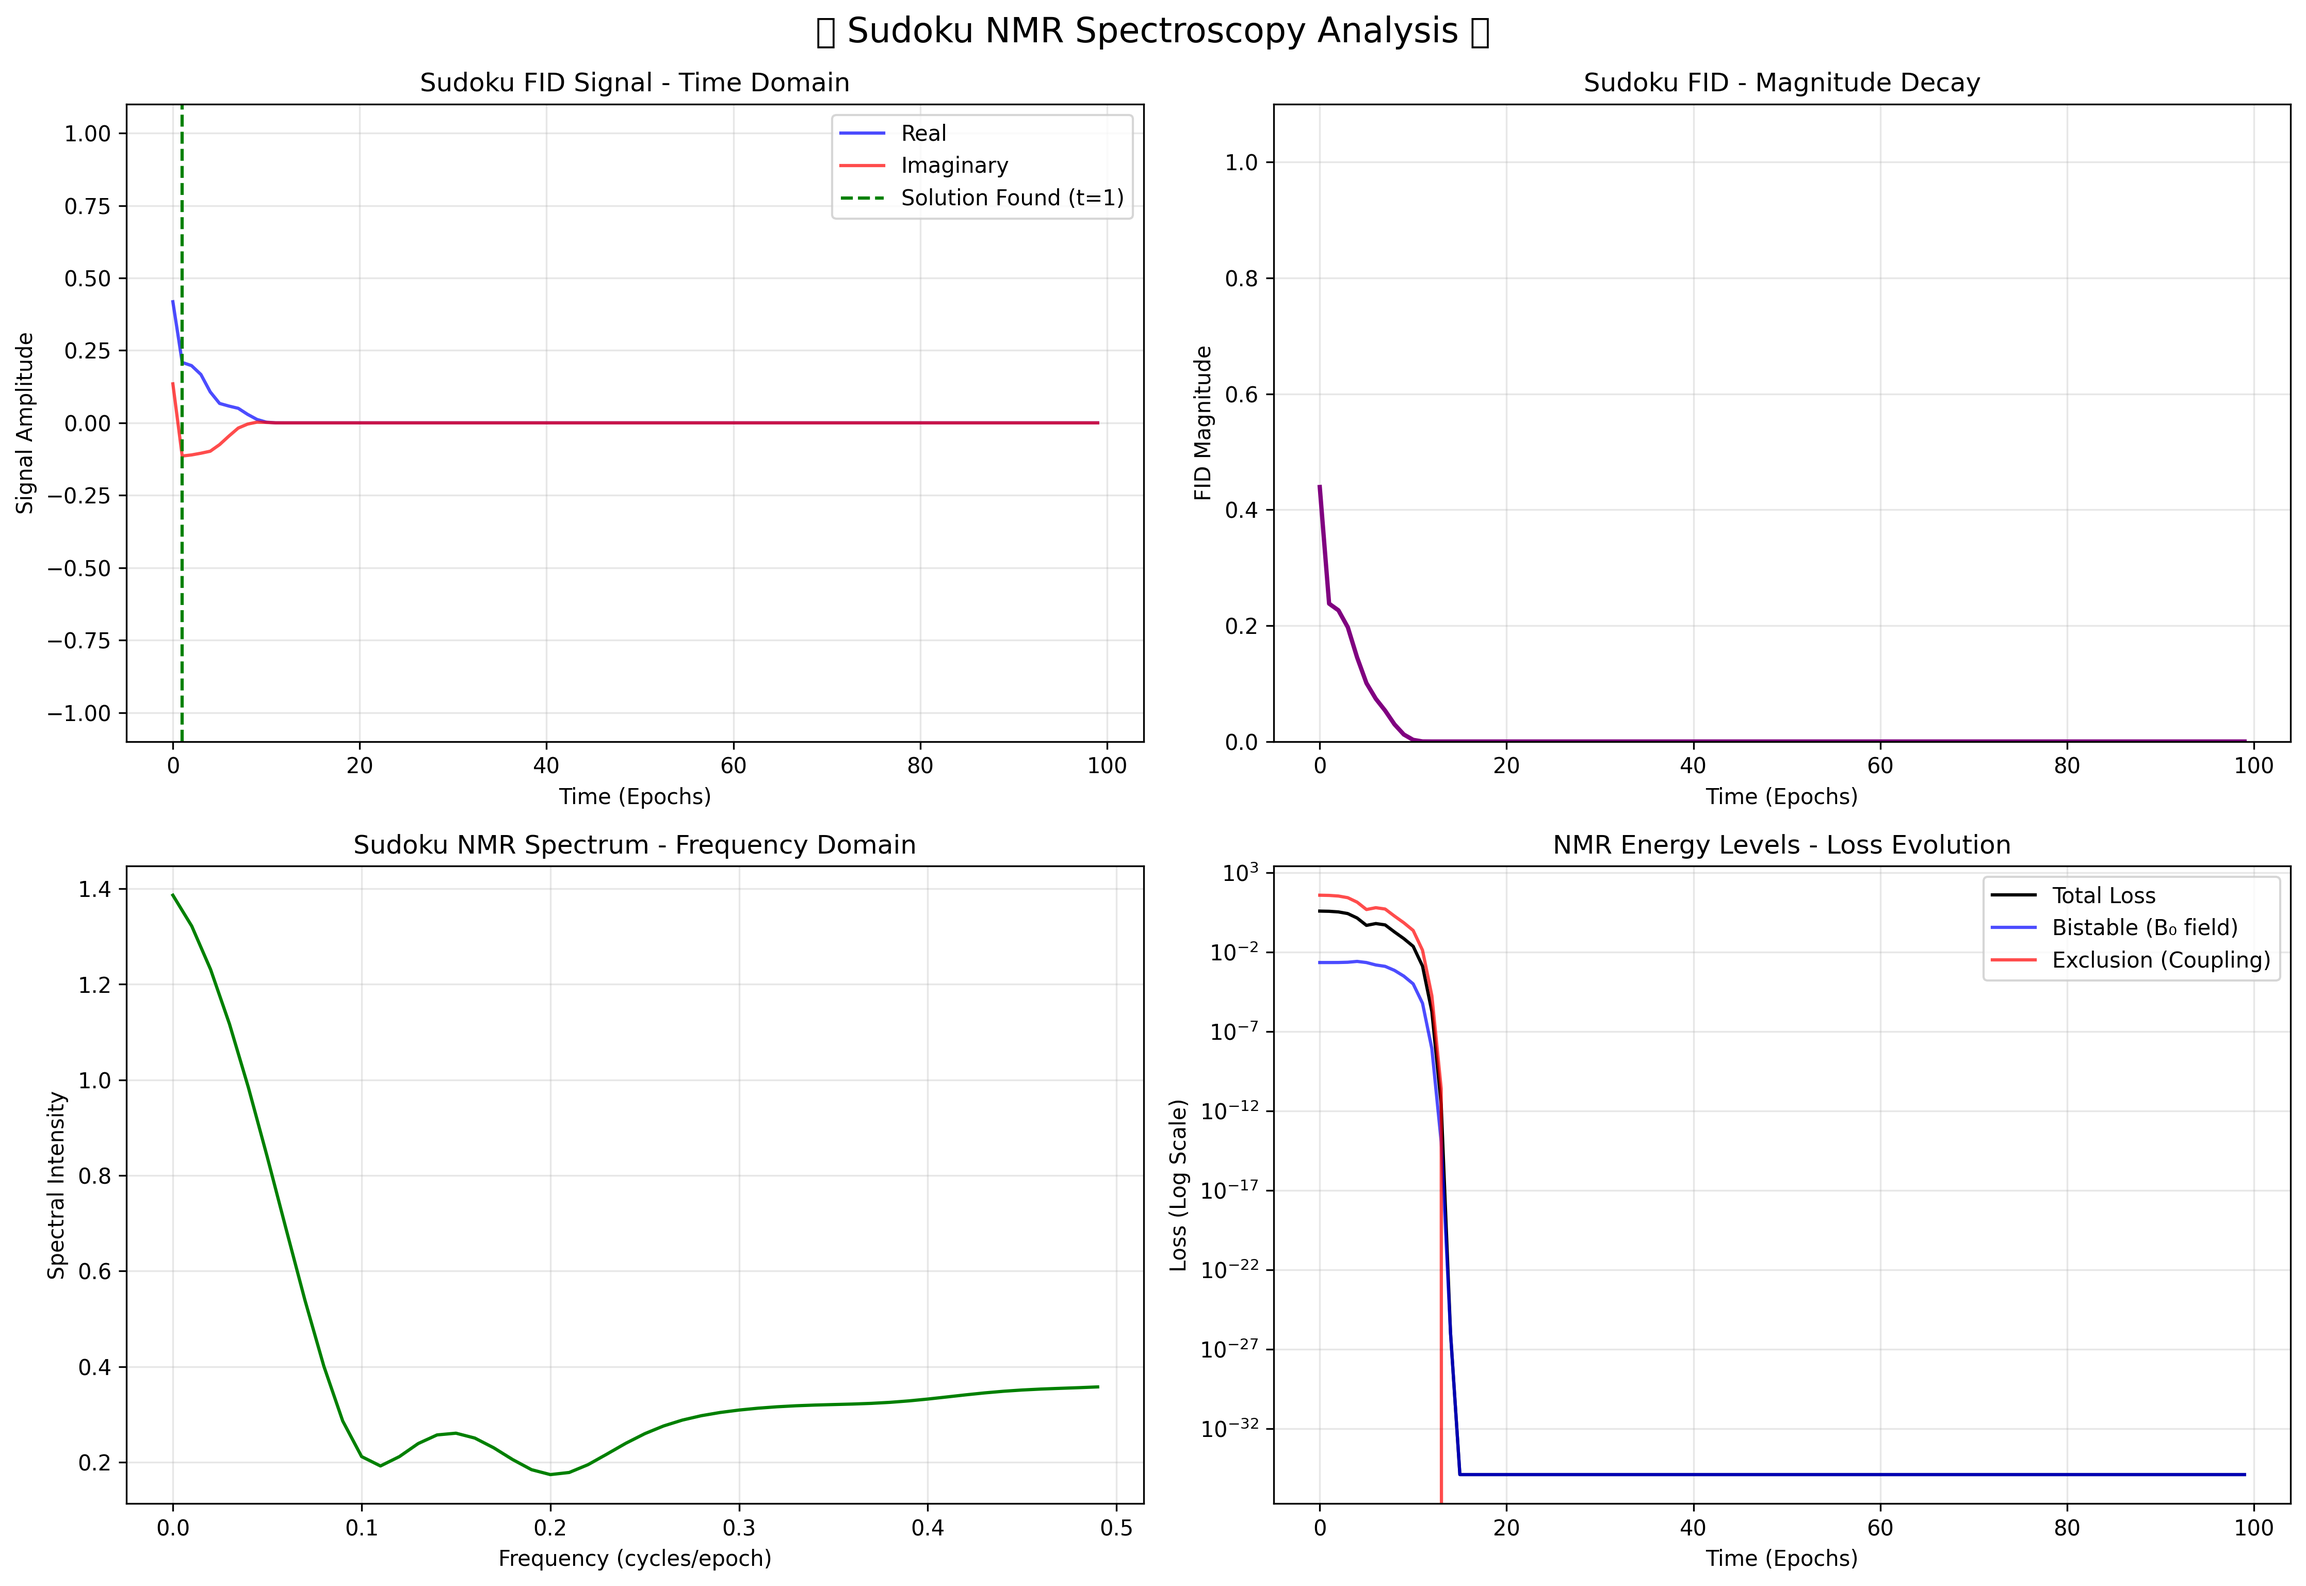
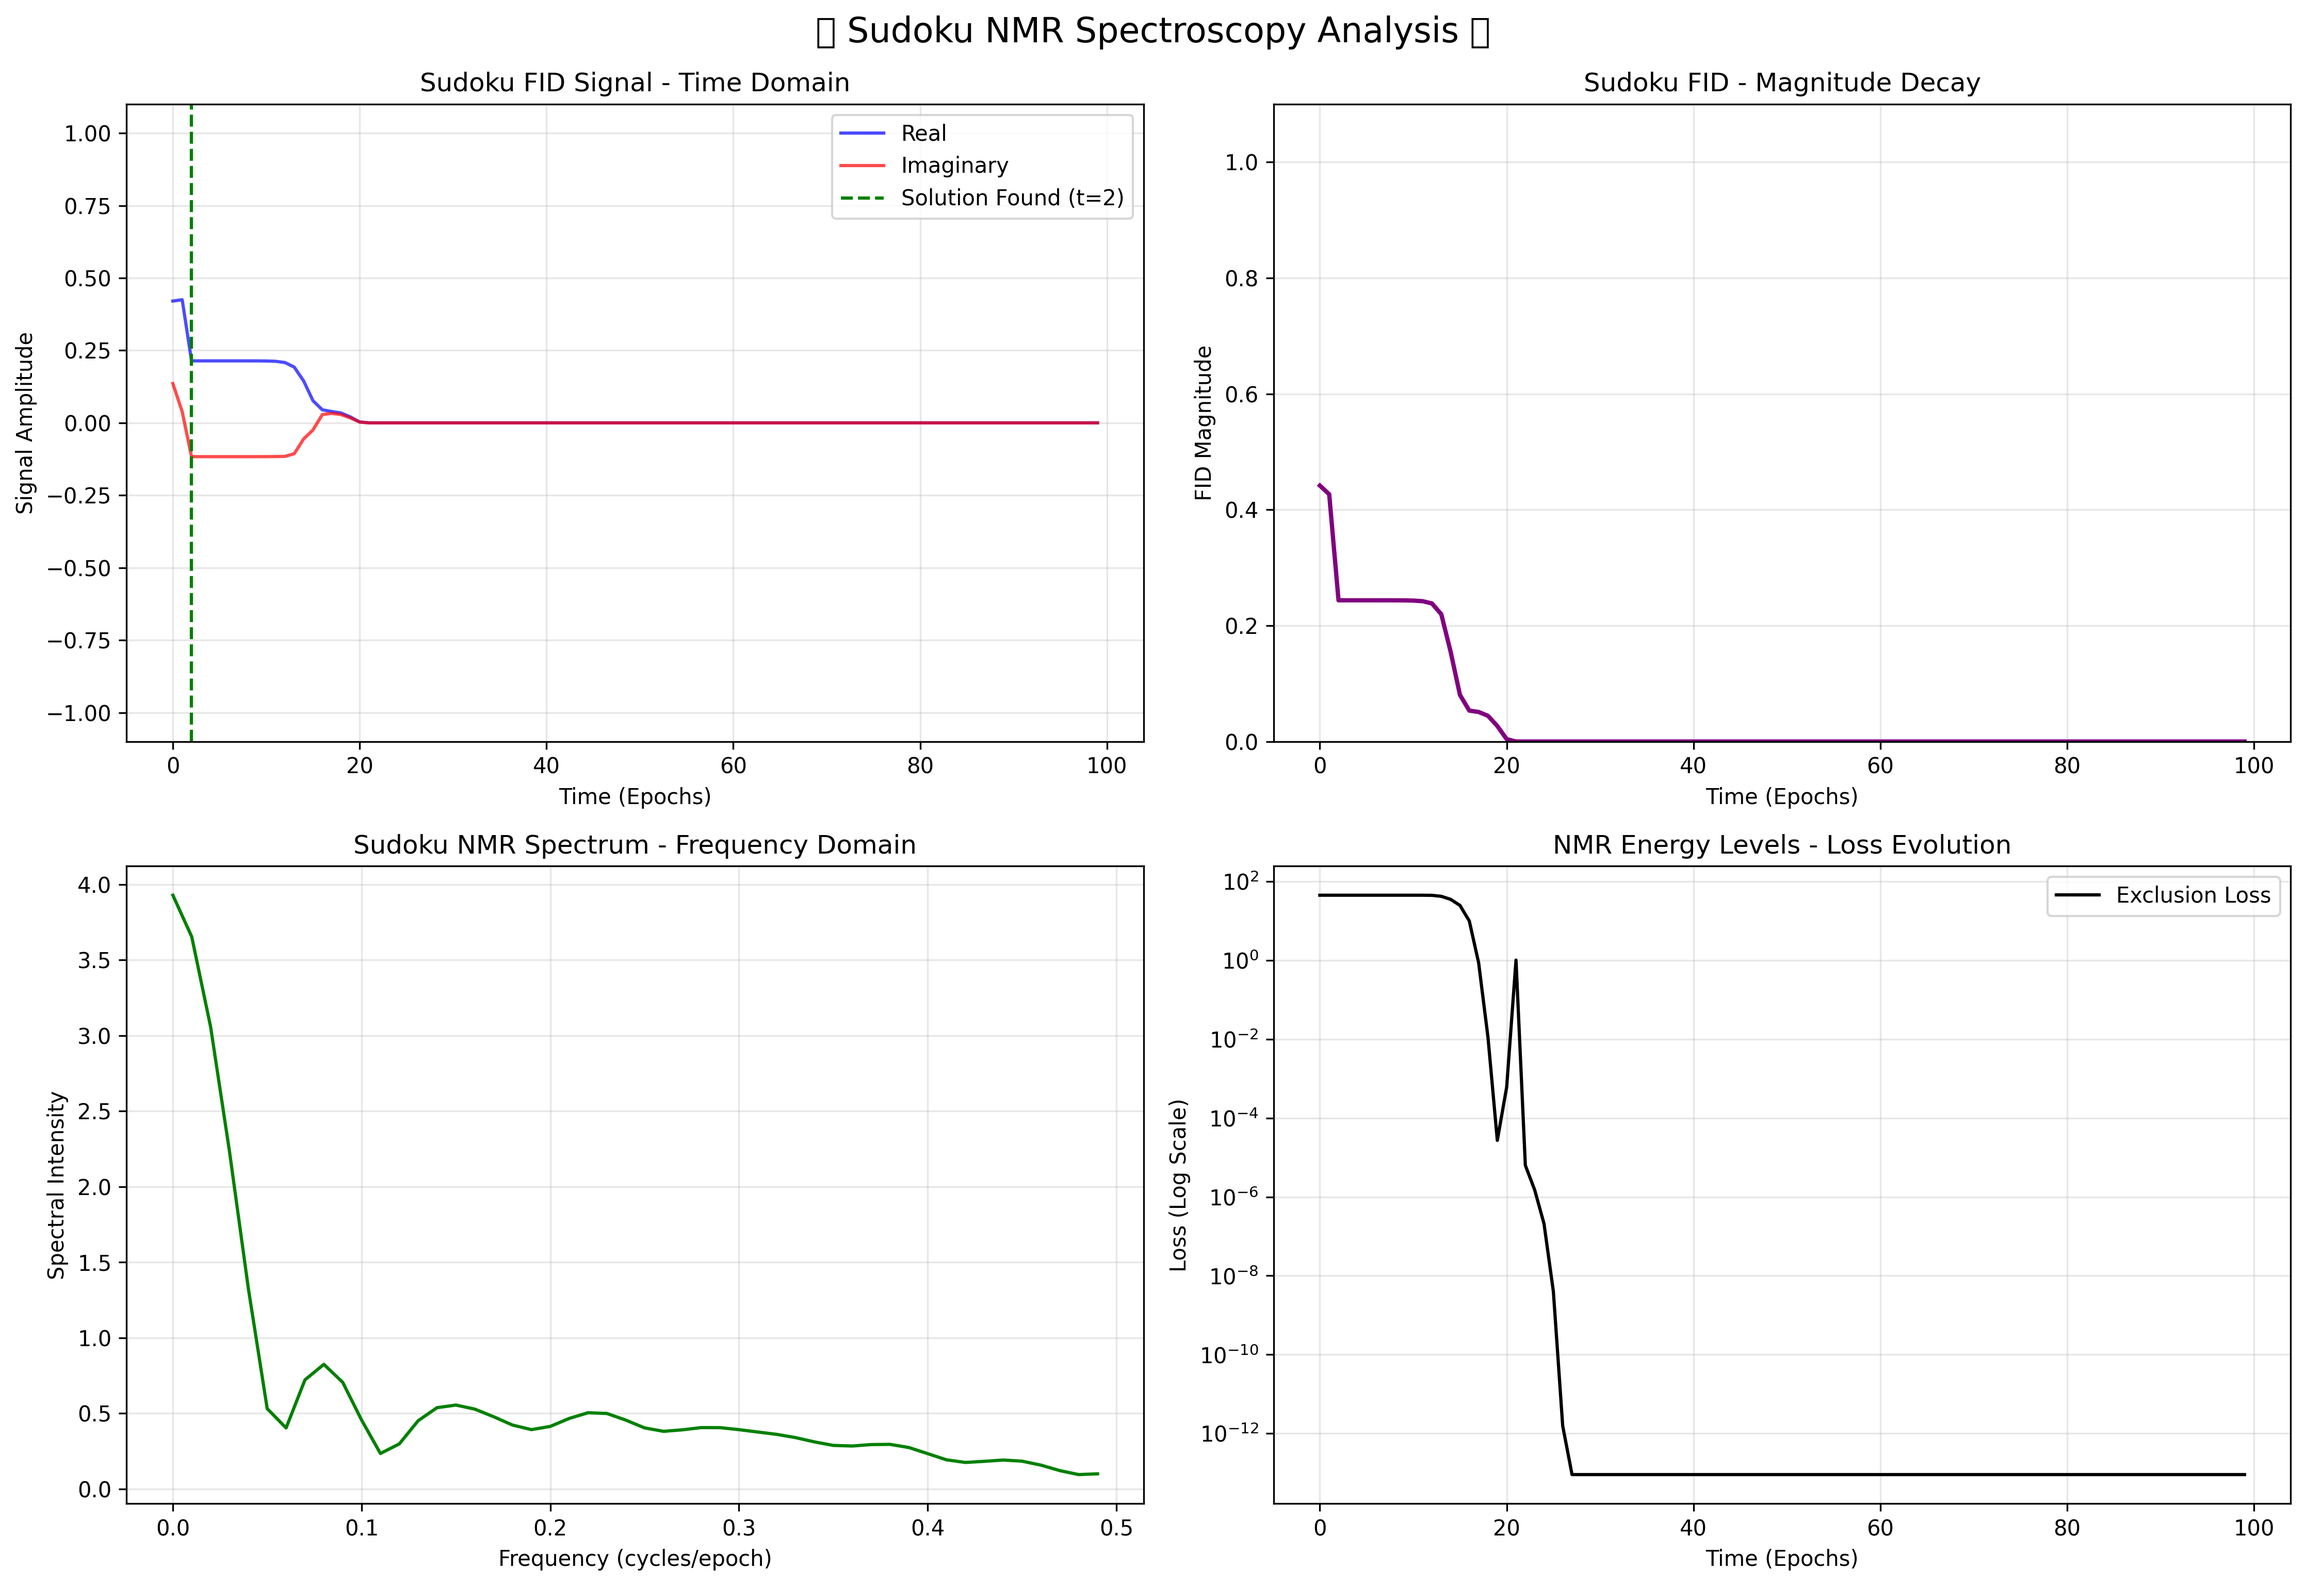
Bistable loss is redundant

diff --git a/backprop_solve.py b/backprop_solve.py
@@ -47,36 +47,29 @@ def is_valid_sudoku(grid):
     return True
 
 
-class BistableLoss(nn.Module):
-    def __init__(self):
-        super().__init__()
-
-    def forward(self, x):
-        a = x**2
-        b = (x - 1) ** 2
-        return (a * b).mean()
-
-
 class ExclusionLoss(nn.Module):
     def __init__(self):
         super().__init__()
 
-    def forward(self, grid_probs):
-        """Vectorized exclusion loss"""
-        # Row exclusion loss
-        row_sums = torch.sum(grid_probs, dim=1)
-        row_loss = torch.sum((row_sums - 1.0) ** 2)
+    def forward(self, grid_logits):
+        """Softmax-based exclusion loss, lower bounded at zero"""
+        # Row softmax - each row normalized
+        row_probs = torch.softmax(grid_logits, dim=1)
 
-        # Column exclusion loss
-        col_sums = torch.sum(grid_probs, dim=0)
-        col_loss = torch.sum((col_sums - 1.0) ** 2)
+        # Column softmax - each column normalized
+        col_probs = torch.softmax(grid_logits, dim=0)
 
-        # Box exclusion loss
-        box_probs = grid_probs.view(3, 3, 3, 3, 9)
-        box_sums = torch.sum(box_probs, dim=(2, 3))
-        box_loss = torch.sum((box_sums - 1.0) ** 2)
+        # Box softmax - each 3x3 box normalized
+        box_logits = grid_logits.view(3, 3, 3, 3, 9)
+        box_probs = torch.softmax(box_logits.view(9, 9, 9), dim=0).view(3, 3, 3, 3, 9)
 
-        return row_loss + col_loss + box_loss
+        # Use entropy (always >= 0) to encourage peaky distributions
+        # Entropy is minimized when distribution is peaked, maximized when uniform
+        row_entropy = -torch.sum(row_probs * torch.log(row_probs + 1e-8))
+        col_entropy = -torch.sum(col_probs * torch.log(col_probs + 1e-8))
+        box_entropy = -torch.sum(box_probs * torch.log(box_probs + 1e-8))
+
+        return row_entropy + col_entropy + box_entropy
 
 
 class SudokuSolver(nn.Module):
@@ -171,8 +164,7 @@ class SudokuSolver(nn.Module):
 # Initialize the model
 model = SudokuSolver(unsolved_grid)
 
-# Initialize loss functions
-bistable_loss = BistableLoss()
+# Initialize loss function
 exclusion_loss = ExclusionLoss()
 
 # Optimizer (Critically damped)
@@ -188,9 +180,7 @@ fid_data = {
     "real": [],
     "imag": [],
     "magnitude": [],
-    "bistable_loss": [],
     "exclusion_loss": [],
-    "total_loss": [],
 }
 
 solution_found_epoch = None
@@ -206,10 +196,8 @@ for epoch in range(num_epochs):
     # Forward pass
     grid_probs = model()
 
-    # Calculate losses
-    bistable = bistable_loss(grid_probs)
-    exclusion = exclusion_loss(grid_probs)
-    total_loss = bistable + 0.1 * exclusion
+    # Calculate loss (pass raw logits to loss function)
+    total_loss = exclusion_loss(model.grid_logits)
 
     # Backward pass
     total_loss.backward()
@@ -221,9 +209,7 @@ for epoch in range(num_epochs):
     fid_data["real"].append(fid_signal["real"])
     fid_data["imag"].append(fid_signal["imag"])
     fid_data["magnitude"].append(fid_signal["magnitude"])
-    fid_data["bistable_loss"].append(bistable.item())
-    fid_data["exclusion_loss"].append(exclusion.item())
-    fid_data["total_loss"].append(total_loss.item())
+    fid_data["exclusion_loss"].append(total_loss.item())
 
     # Check if solution is valid
     current_solution = model.get_solution()
@@ -296,20 +282,8 @@ ax3.set_title("Sudoku NMR Spectrum - Frequency Domain")
 ax3.grid(True, alpha=0.3)
 
 # Plot 4: Loss Evolution
-ax4.semilogy(fid_data["epoch"], fid_data["total_loss"], "black", label="Total Loss")
 ax4.semilogy(
-    fid_data["epoch"],
-    fid_data["bistable_loss"],
-    "blue",
-    alpha=0.7,
-    label="Bistable (B₀ field)",
-)
-ax4.semilogy(
-    fid_data["epoch"],
-    fid_data["exclusion_loss"],
-    "red",
-    alpha=0.7,
-    label="Exclusion (Coupling)",
+    fid_data["epoch"], fid_data["exclusion_loss"], "black", label="Exclusion Loss"
 )
 ax4.set_xlabel("Time (Epochs)")
 ax4.set_ylabel("Loss (Log Scale)")
